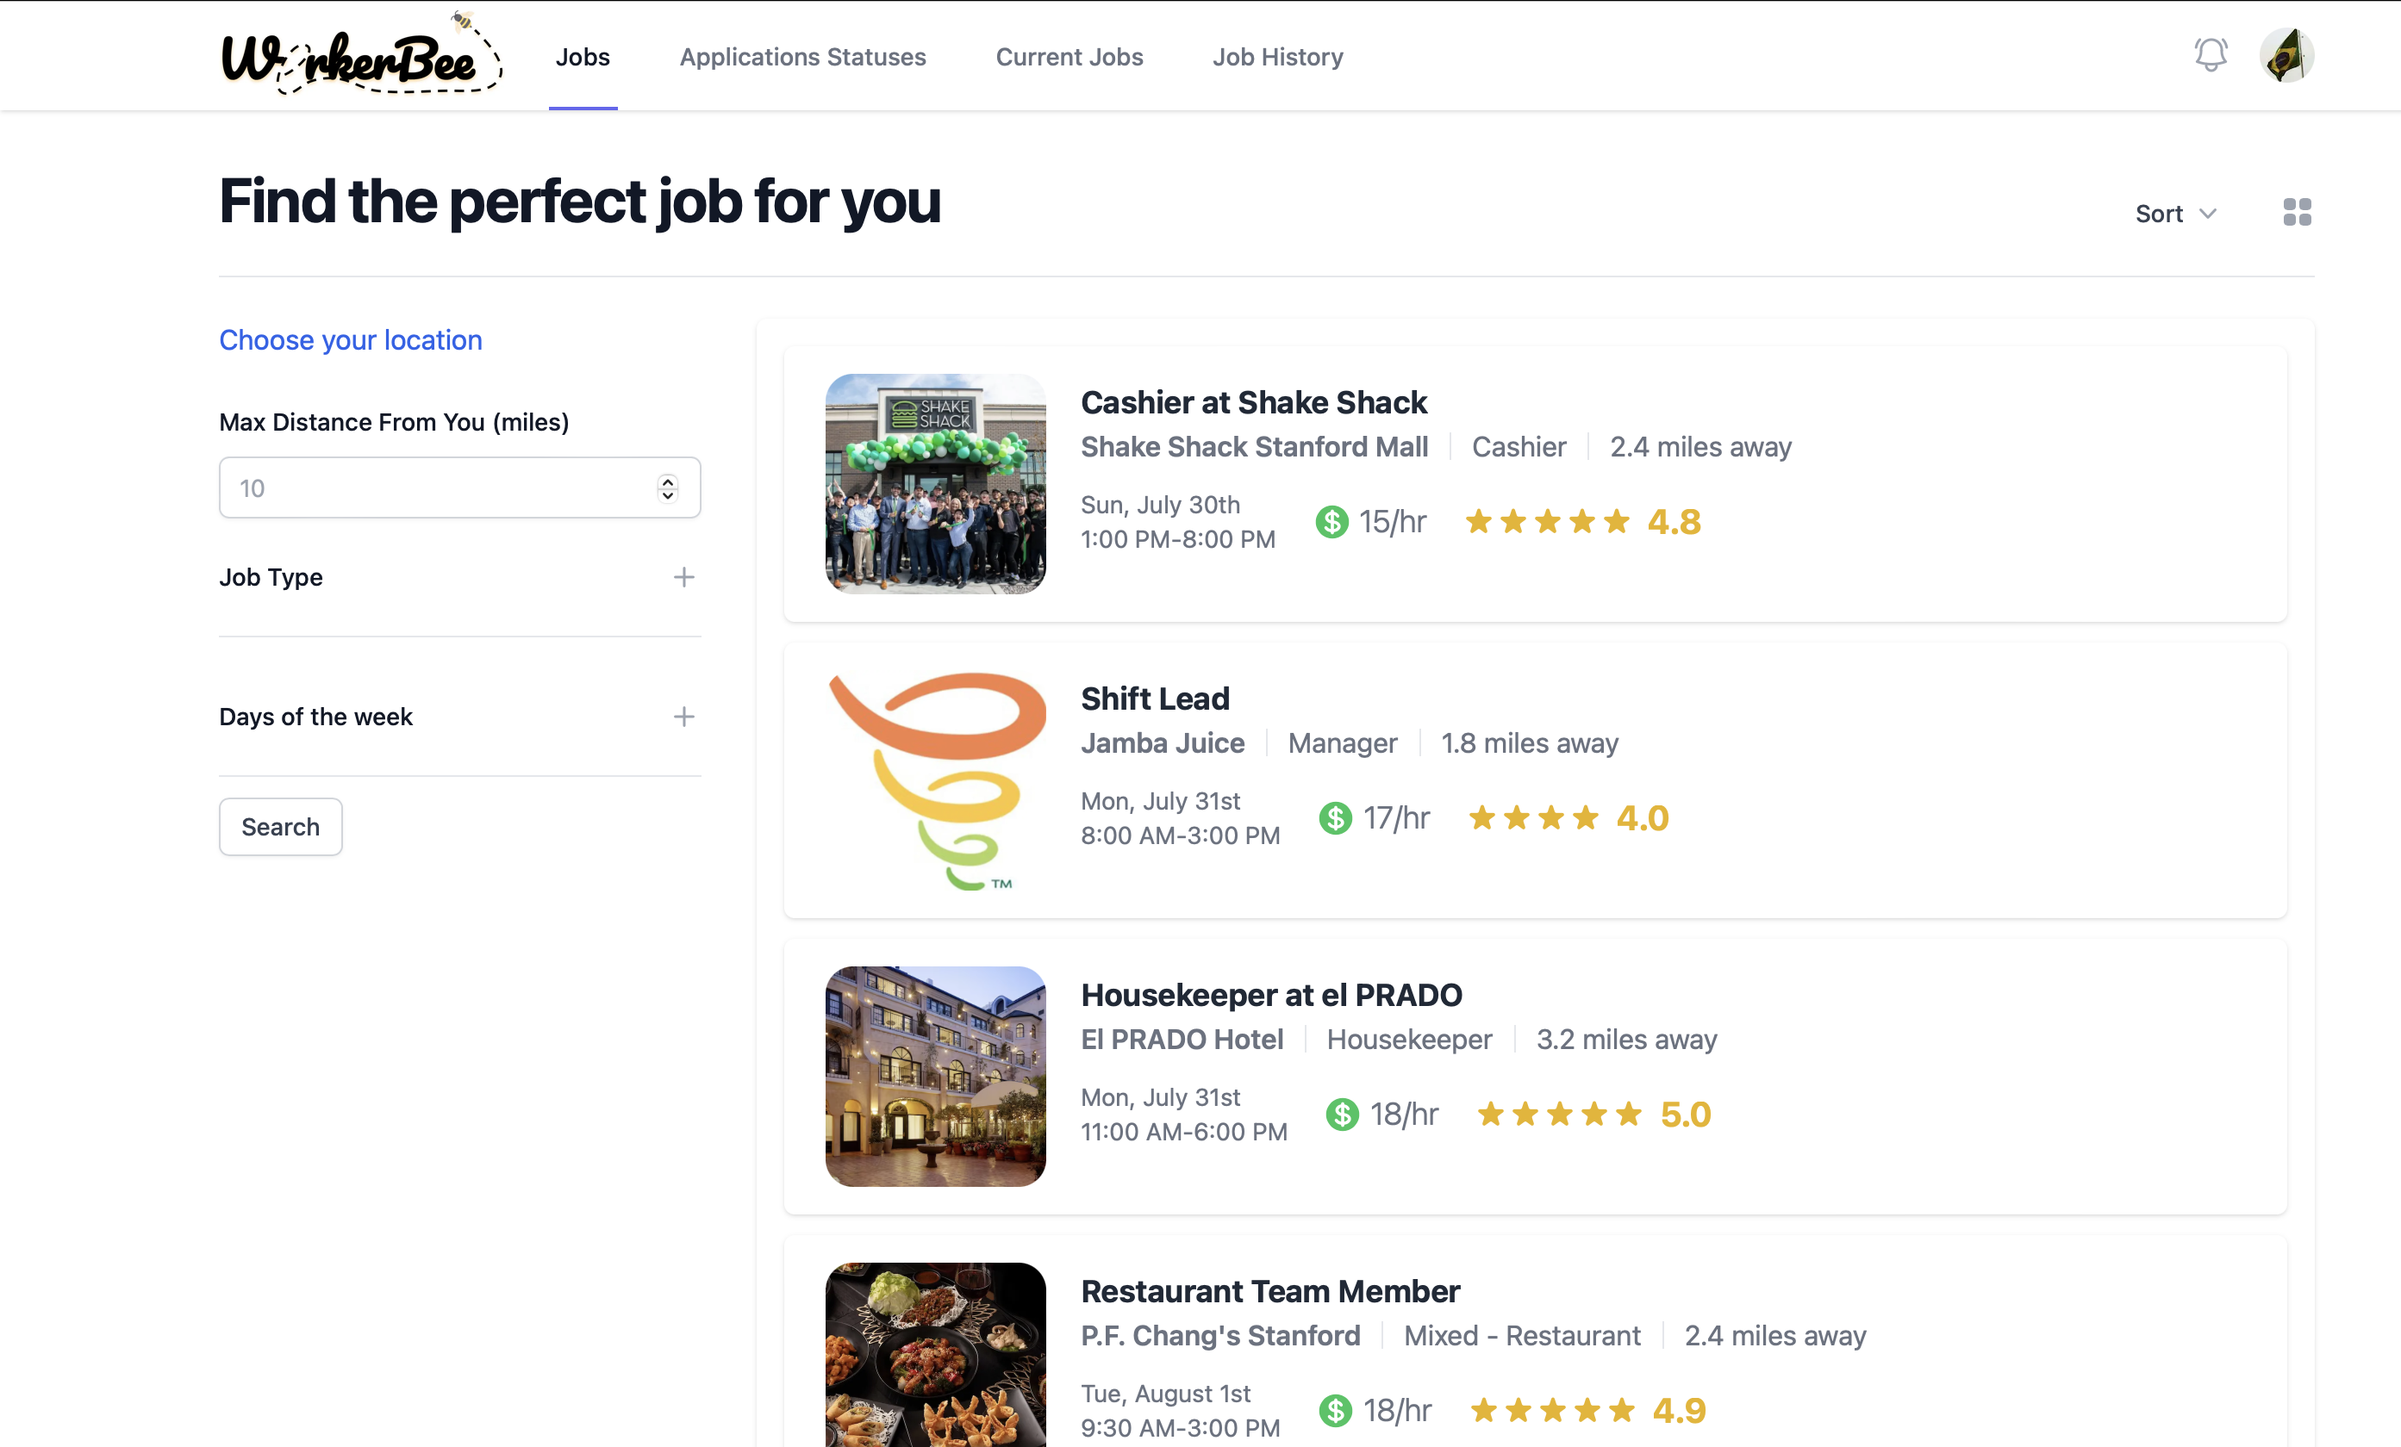
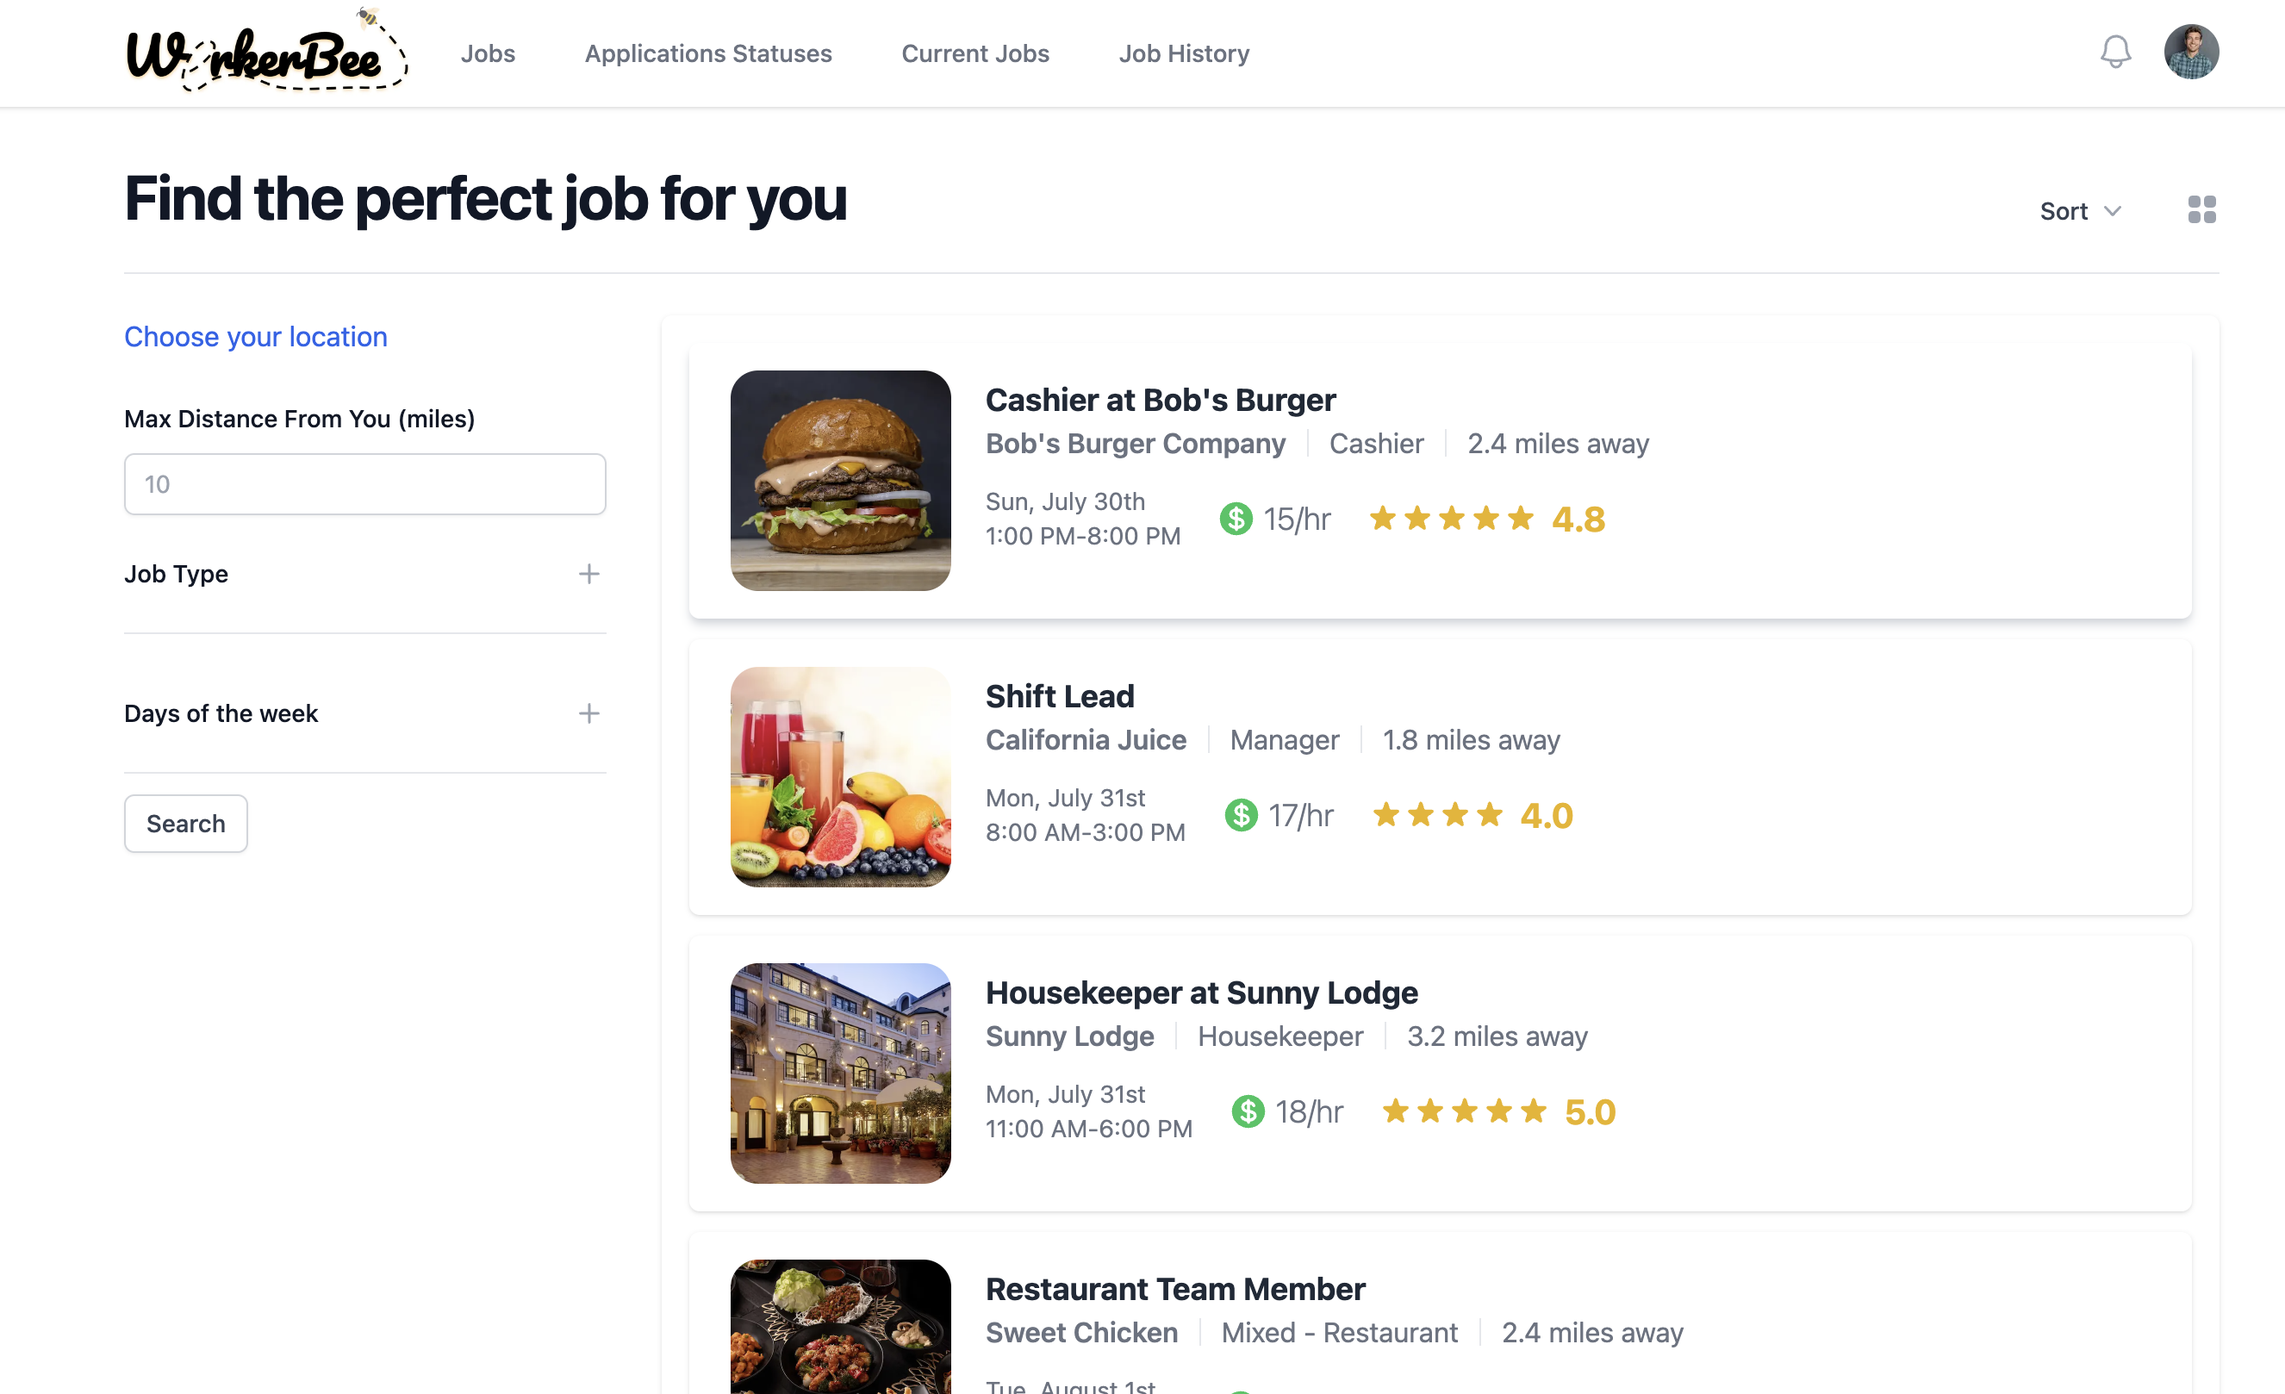
jobs and landing page updates

diff --git a/src/app/jobs/mockData.ts b/src/app/jobs/mockData.ts
@@ -8,10 +8,10 @@ export const mockData = {
 		jobPostings: [
 			{
 				_id: '1',
-				name: 'Cashier at Shake Shack',
+				name: "Cashier at Bob's Burger",
 				description: '',
 				company: {} as Company,
-				companyName: 'Shake Shack Stanford Mall',
+				companyName: "Bob's Burger Company",
 				dayOfWeek: 'Friday',
 				location: 'Stanford, CA',
 				dressCode: '',
@@ -24,7 +24,7 @@ export const mockData = {
 				distance: 2.4,
 				rating: 4.8,
 				frontPicture:
-					'https://werkerbee.s3.us-west-2.amazonaws.com/784935296fb721be76b78d1d6218da7a.jpeg?response-content-disposition=inline&X-Amz-Security-Token=IQoJb3JpZ2luX2VjEK7%2F%2F%2F%2F%2F%2F%2F%2F%2F%2FwEaDGV1LWNlbnRyYWwtMSJGMEQCIEZFLTBDTK2n6TdDu7FN8uKX6KQPHtpj%2B%2BKn%2F67QYwWcAiBCaIbm%2FbEl96hTgyePMtFpqPyQscUXnDO%2Be3GHOe%2B1%2FSr9AghHEAEaDDU2NDQxMzEzMTAzNiIMXjyOoRP3VJ0kzVnqKtoCD7y%2B17xtd1mkcwBIfJrNI4lBfOpXx2lvrkl78G%2BAuRvQg3Pj8FJLFmseMLyzaYS1XIPkiN%2FWyZioAB5RfDCjDilahkT8HM%2BcyZl68P4%2FoBjqZMwxRikWltvxAC4Q%2FU7CcCkUNortDamG95rfP%2BL%2Fmh5Qhyjf4KGTHKVFZEJSH6AJwiUEI83nAb5nvFw1Mw1QBHIZ7uwCzkCROBwoviNShln0J16hMzbeaARmtyjazjjZ8gOnKDngYXgN7YmFGWAa9YV%2Bt%2BnrlJnogt%2BEDhjZYHuX3b8OyBYlHb6PMFq1gVEIqaI0C3iTpjIl1e6l4RRPgK%2F1mCIUAQTaLnxbgbWzl9Tr683CGQbb2SkRJpuXf1p4NU9B8VDO1TlP%2F5geD9Z98cgdsAZbRbWRhZbYrb6U5W0UOw4Ldvc60Q12OPzEPTYHEZenMj5%2FvsZR3ar3Fe%2B01VuKKb8%2BqUrJgTDS1oSmBjq0AlyBG4AY1ruX4PgYy5Ev2KTMMYTsr%2F%2BUU2EGrexm%2F%2F4ELCzO1rkzjOZVnb57cL57hGBTCqd7cezVnmM8a7LX06A1j6%2FFSTtBd5s7S8oiKRe9GqrwD8fr1aLiO1k6KVUOW%2BM5UEy73DUpWhfwJdZ%2BhYziHEuNfamEwIiURiRfNv%2Bn24qhDmltYlrgkMzCaXyorgYIKXRH9i119lbI%2BolsQGuKNr2YaW8W8wj0eAY3fAHsafryz4xVwUT73zQjdPooLNqk5z5kWqcK4eboarJXDJM9%2Bmc6R5k%2FN3EK8BDIAbL0vxrYHDb5yRmfAxrp%2F0%2BdHoTfoB15BpvgtSLEHzgUkVUOEPpMmKow3KynmxuiYghsid2A2rct4KntxaFYvJ6jslphjF0Ja7bI2R5sR6on75KgKgZl&X-Amz-Algorithm=AWS4-HMAC-SHA256&X-Amz-Date=20230726T142009Z&X-Amz-SignedHeaders=host&X-Amz-Expires=300&X-Amz-Credential=ASIAYG2NE5EOIMX5I6GN%2F20230726%2Fus-west-2%2Fs3%2Faws4_request&X-Amz-Signature=a3fecf0bcde2a92da560a2ae6ee468f626f9bbbb092a1f922d22bf0c66c00401',
+					'https://werkerbee.s3.us-west-2.amazonaws.com/photo-1568901346375-23c9450c58cd.jpeg?response-content-disposition=inline&X-Amz-Security-Token=IQoJb3JpZ2luX2VjEFgaDGV1LWNlbnRyYWwtMSJHMEUCIFoFhBkNSDlMZ4pBrGBa%2F2P6SMWF3jePeOhUo0888ksoAiEA8EASQ3sl5Xx20Z%2FyKi7oXl0YVJeyL3EmgckXraLpdFYqhAMI8f%2F%2F%2F%2F%2F%2F%2F%2F%2F%2FARABGgw1NjQ0MTMxMzEwMzYiDOSiW3KQLL71pPtWNyrYAqATIsO5NIX0FqMIdW6ZURIak5W%2B%2B7kdqVlBf1GXOwc%2FbTudxUn2vdzVyH%2F0tt2eyeVOTA%2BqlbomqcXOBATO4aX4icgY17tB9iG%2B90iLs%2BROYnX9N6E21nj5ZQf2ihS9ZosuWDY6SyAaLMxneD%2B%2BlkcUthyyYiwQu16xKM3GI22fejvLWkCuo3fCkpGECf5LUb4JHd2gcyVKyntE77drG6LQz1cpthtZ1iihNJ%2B5KUiAQAlzmHx4GHaKDC3Nyyq2t0bS%2F%2FyyoHa0flCc%2FKXPBXR9%2FIqnukj42TXLfjNGh5TY5q8LXCNl8ML1De4So527XE2NVCrmTS6TWEly%2BCjQ3h%2F42dVf3k9N2hxKCpYd%2BCKlv89S3EbzinjEvQt69YoBCsuRVUkO2CfgB7xelD6nP6zowjRxr5FzL%2FKPwXvxMZFZLzLC%2Flh5lrmcOhQv0rY6VmJX8Vol9kggMKnwqaYGOrMCqGiK%2BgNkDObgBc9WfMBsO%2FX7pI6a0OhdaxNZ%2B8IclfJlxh9w5kihDYUe71QXaIWYXYW0YsyDD8Zen1cmYL0F%2FYafS%2BEYesm8o9jMu6l64Og7vFC8d97Y7ZSA%2BmdV3vOEyYdHAD7YBxDj3Q5eJf8cRmFbUi%2F1vM6zjzOO5bMiKvls206w1Ya4mpvo0LCLOyVv32HtnUSO2MGIZtXxVLoF%2FyXYVh2Y9COKSHYFLyxeTZ2Rpdd90blLUfCOMBI5O75mgd8MYjtKmxRrezxYNR7npm7euggMGy%2BPSakC149XXP80jo17%2BzF2VVATXDmVD51O0kmB2kqc%2FQM%2FqQCGyzi67E8ihlI3Jd52ERmg%2BtnC%2FgMX2QIdvSfcow4BRlM1omrCqRAh%2F4WUWRwOuncZpkgFDAyQIQ%3D%3D&X-Amz-Algorithm=AWS4-HMAC-SHA256&X-Amz-Date=20230802T153809Z&X-Amz-SignedHeaders=host&X-Amz-Expires=300&X-Amz-Credential=ASIAYG2NE5EOAGO4ZJMK%2F20230802%2Fus-west-2%2Fs3%2Faws4_request&X-Amz-Signature=dfb355024552611069bc822d794a0b192ec311f65d3188d8a22479a2908e68c5',
 				applications: [],
 				createdAt: new Date(),
 				updatedAt: new Date(),
@@ -34,7 +34,7 @@ export const mockData = {
 				name: 'Shift Lead',
 				description: '',
 				company: {} as Company,
-				companyName: 'Jamba Juice',
+				companyName: 'California Juice',
 				dayOfWeek: 'Saturday',
 				location: 'Stanford, CA',
 				dressCode: '',
@@ -47,17 +47,17 @@ export const mockData = {
 				distance: 1.8,
 				rating: 4,
 				frontPicture:
-					'https://werkerbee.s3.us-west-2.amazonaws.com/640_640.jpeg?response-content-disposition=inline&X-Amz-Security-Token=IQoJb3JpZ2luX2VjEK7%2F%2F%2F%2F%2F%2F%2F%2F%2F%2FwEaDGV1LWNlbnRyYWwtMSJGMEQCIEZFLTBDTK2n6TdDu7FN8uKX6KQPHtpj%2B%2BKn%2F67QYwWcAiBCaIbm%2FbEl96hTgyePMtFpqPyQscUXnDO%2Be3GHOe%2B1%2FSr9AghHEAEaDDU2NDQxMzEzMTAzNiIMXjyOoRP3VJ0kzVnqKtoCD7y%2B17xtd1mkcwBIfJrNI4lBfOpXx2lvrkl78G%2BAuRvQg3Pj8FJLFmseMLyzaYS1XIPkiN%2FWyZioAB5RfDCjDilahkT8HM%2BcyZl68P4%2FoBjqZMwxRikWltvxAC4Q%2FU7CcCkUNortDamG95rfP%2BL%2Fmh5Qhyjf4KGTHKVFZEJSH6AJwiUEI83nAb5nvFw1Mw1QBHIZ7uwCzkCROBwoviNShln0J16hMzbeaARmtyjazjjZ8gOnKDngYXgN7YmFGWAa9YV%2Bt%2BnrlJnogt%2BEDhjZYHuX3b8OyBYlHb6PMFq1gVEIqaI0C3iTpjIl1e6l4RRPgK%2F1mCIUAQTaLnxbgbWzl9Tr683CGQbb2SkRJpuXf1p4NU9B8VDO1TlP%2F5geD9Z98cgdsAZbRbWRhZbYrb6U5W0UOw4Ldvc60Q12OPzEPTYHEZenMj5%2FvsZR3ar3Fe%2B01VuKKb8%2BqUrJgTDS1oSmBjq0AlyBG4AY1ruX4PgYy5Ev2KTMMYTsr%2F%2BUU2EGrexm%2F%2F4ELCzO1rkzjOZVnb57cL57hGBTCqd7cezVnmM8a7LX06A1j6%2FFSTtBd5s7S8oiKRe9GqrwD8fr1aLiO1k6KVUOW%2BM5UEy73DUpWhfwJdZ%2BhYziHEuNfamEwIiURiRfNv%2Bn24qhDmltYlrgkMzCaXyorgYIKXRH9i119lbI%2BolsQGuKNr2YaW8W8wj0eAY3fAHsafryz4xVwUT73zQjdPooLNqk5z5kWqcK4eboarJXDJM9%2Bmc6R5k%2FN3EK8BDIAbL0vxrYHDb5yRmfAxrp%2F0%2BdHoTfoB15BpvgtSLEHzgUkVUOEPpMmKow3KynmxuiYghsid2A2rct4KntxaFYvJ6jslphjF0Ja7bI2R5sR6on75KgKgZl&X-Amz-Algorithm=AWS4-HMAC-SHA256&X-Amz-Date=20230726T142811Z&X-Amz-SignedHeaders=host&X-Amz-Expires=300&X-Amz-Credential=ASIAYG2NE5EOIMX5I6GN%2F20230726%2Fus-west-2%2Fs3%2Faws4_request&X-Amz-Signature=052eab5bcc40577ca3719bcad6f0ac6fbfba948659f96ab619f63e3a971d4376',
+					'https://werkerbee.s3.us-west-2.amazonaws.com/360_F_223473605_QZguR4hczOIkKmoX3YJ9uRYsrmzN5XaM.jpg?response-content-disposition=inline&X-Amz-Security-Token=IQoJb3JpZ2luX2VjEFgaDGV1LWNlbnRyYWwtMSJHMEUCIFoFhBkNSDlMZ4pBrGBa%2F2P6SMWF3jePeOhUo0888ksoAiEA8EASQ3sl5Xx20Z%2FyKi7oXl0YVJeyL3EmgckXraLpdFYqhAMI8f%2F%2F%2F%2F%2F%2F%2F%2F%2F%2FARABGgw1NjQ0MTMxMzEwMzYiDOSiW3KQLL71pPtWNyrYAqATIsO5NIX0FqMIdW6ZURIak5W%2B%2B7kdqVlBf1GXOwc%2FbTudxUn2vdzVyH%2F0tt2eyeVOTA%2BqlbomqcXOBATO4aX4icgY17tB9iG%2B90iLs%2BROYnX9N6E21nj5ZQf2ihS9ZosuWDY6SyAaLMxneD%2B%2BlkcUthyyYiwQu16xKM3GI22fejvLWkCuo3fCkpGECf5LUb4JHd2gcyVKyntE77drG6LQz1cpthtZ1iihNJ%2B5KUiAQAlzmHx4GHaKDC3Nyyq2t0bS%2F%2FyyoHa0flCc%2FKXPBXR9%2FIqnukj42TXLfjNGh5TY5q8LXCNl8ML1De4So527XE2NVCrmTS6TWEly%2BCjQ3h%2F42dVf3k9N2hxKCpYd%2BCKlv89S3EbzinjEvQt69YoBCsuRVUkO2CfgB7xelD6nP6zowjRxr5FzL%2FKPwXvxMZFZLzLC%2Flh5lrmcOhQv0rY6VmJX8Vol9kggMKnwqaYGOrMCqGiK%2BgNkDObgBc9WfMBsO%2FX7pI6a0OhdaxNZ%2B8IclfJlxh9w5kihDYUe71QXaIWYXYW0YsyDD8Zen1cmYL0F%2FYafS%2BEYesm8o9jMu6l64Og7vFC8d97Y7ZSA%2BmdV3vOEyYdHAD7YBxDj3Q5eJf8cRmFbUi%2F1vM6zjzOO5bMiKvls206w1Ya4mpvo0LCLOyVv32HtnUSO2MGIZtXxVLoF%2FyXYVh2Y9COKSHYFLyxeTZ2Rpdd90blLUfCOMBI5O75mgd8MYjtKmxRrezxYNR7npm7euggMGy%2BPSakC149XXP80jo17%2BzF2VVATXDmVD51O0kmB2kqc%2FQM%2FqQCGyzi67E8ihlI3Jd52ERmg%2BtnC%2FgMX2QIdvSfcow4BRlM1omrCqRAh%2F4WUWRwOuncZpkgFDAyQIQ%3D%3D&X-Amz-Algorithm=AWS4-HMAC-SHA256&X-Amz-Date=20230802T153835Z&X-Amz-SignedHeaders=host&X-Amz-Expires=300&X-Amz-Credential=ASIAYG2NE5EOAGO4ZJMK%2F20230802%2Fus-west-2%2Fs3%2Faws4_request&X-Amz-Signature=eb2699ad20e9a28be53d0e3039ba331ba83d89c9fe5c16f9214386737bfac5df',
 				applications: [],
 				createdAt: new Date(),
 				updatedAt: new Date(),
 			},
 			{
 				_id: '1',
-				name: 'Housekeeper at el PRADO',
+				name: 'Housekeeper at Sunny Lodge',
 				description: '',
 				company: {} as Company,
-				companyName: 'el PRADO Hotel',
+				companyName: 'Sunny Lodge',
 				dayOfWeek: 'Monday',
 				location: 'Palo Alto, CA',
 				dressCode: '',
@@ -80,7 +80,7 @@ export const mockData = {
 				name: 'Restaurant Team Member',
 				description: '',
 				company: {} as Company,
-				companyName: "P.F. Chang's Stanford",
+				companyName: 'Sweet Chicken',
 				dayOfWeek: 'Friday',
 				location: 'Stanford, CA',
 				dressCode: '',

diff --git a/src/app/page.tsx b/src/app/page.tsx
@@ -2,15 +2,13 @@
 
 import {
 	ArrowPathIcon,
-	Bars3Icon,
-	CloudArrowUpIcon,
+	BanknotesIcon,
+	ClockIcon,
 	CogIcon,
-	LockClosedIcon,
+	HandThumbUpIcon,
 	ServerIcon,
-	ShieldCheckIcon,
-	XMarkIcon,
 } from '@heroicons/react/24/outline'
-import { ChevronRightIcon, LinkIcon } from '@heroicons/react/24/solid'
+import { ChevronRightIcon } from '@heroicons/react/24/solid'
 
 import WerkerBeeLogo from '@/src/assets/werkerbeelogo_new_white.png'
 
@@ -20,40 +18,22 @@ import Image from 'next/image'
 
 const features = [
 	{
-		name: 'Push to Deploy',
+		name: 'Save Money',
 		description:
-			'Ac tincidunt sapien vehicula erat auctor pellentesque rhoncus. Et magna sit morbi vitae lobortis.',
-		icon: CloudArrowUpIcon,
+			'Building your own pool of flexible workers through WerkerBee costs less than using hiring websites, temp agencies, or independent contractor platforms.',
+		icon: BanknotesIcon,
 	},
 	{
-		name: 'SSL Certificates',
+		name: 'Save Time',
 		description:
-			'Qui aut temporibus nesciunt vitae dicta repellat sit dolores pariatur. Temporibus qui illum aut.',
-		icon: LockClosedIcon,
+			'WerkerBee does the hiring work for you by prescreening all our employed flexible workers. You can skip the emails, phone calls, interviews, verifications, and focus on running your business!',
+		icon: ClockIcon,
 	},
 	{
-		name: 'Simple Queues',
+		name: 'Hire Away',
 		description:
-			'Rerum quas incidunt deleniti quaerat suscipit mollitia. Amet repellendus ut odit dolores qui.',
-		icon: ArrowPathIcon,
-	},
-	{
-		name: 'Advanced Security',
-		description:
-			'Ullam laboriosam est voluptatem maxime ut mollitia commodi. Et dignissimos suscipit perspiciatis.',
-		icon: ShieldCheckIcon,
-	},
-	{
-		name: 'Powerful API',
-		description:
-			'Ab a facere voluptatem in quia corrupti veritatis aliquam. Veritatis labore quaerat ipsum quaerat id.',
-		icon: CogIcon,
-	},
-	{
-		name: 'Database Backups',
-		description:
-			'Quia qui et est officia cupiditate qui consectetur. Ratione similique et impedit ea ipsum et.',
-		icon: ServerIcon,
+			"Hire away our WerkerBees! WerkerBee doesn't charge businesses if they want to hire away our workers. Why would we? WerkerBee is here to support the hospitality industry!",
+		icon: HandThumbUpIcon,
 	},
 ]
 const blogPosts = [
@@ -299,12 +279,13 @@ export default function Example() {
 									Job search
 								</h2>
 								<p className='mt-2 text-3xl font-extrabold text-gray-900 tracking-tight sm:text-4xl'>
-									Want to find a shift for this weekend? No problem.
+									Want to work in hospitality, but need a flexible schedule?
 								</p>
 								<p className='mt-5 max-w-prose mx-auto text-xl text-gray-500'>
-									Phasellus lorem quam molestie id quisque diam aenean nulla in.
-									Accumsan in quis quis nunc, ullamcorper malesuada. Eleifend
-									condimentum id viverra nulla.
+									When hired by WerkerBee, you will be trained at hospitality
+									businesses that need your skills and match your availability.
+									You&apos;ll also have the chance to advance your career
+									through WerkerBee&apos;s upskilling program!
 								</p>
 							</div>
 							<div className='mt-12 -mb-10 sm:-mb-24 lg:-mb-80'>
@@ -329,9 +310,11 @@ export default function Example() {
 								Say goodbye to your worker shortage issues
 							</p>
 							<p className='mt-5 max-w-prose mx-auto text-xl text-gray-500'>
-								Phasellus lorem quam molestie id quisque diam aenean nulla in.
-								Accumsan in quis quis nunc, ullamcorper malesuada. Eleifend
-								condimentum id viverra nulla.
+								Run your hospitality business seamlessly using your own
+								dedicated pools of flexible workers. WerkerBee&apos;s employed
+								flexible workers are trained by you at your business so you have
+								a reliable solution for all your planned and unplanned labor
+								shortages.
 							</p>
 							<div className='mt-12'>
 								<div className='grid grid-cols-1 gap-8 sm:grid-cols-2 lg:grid-cols-3'>
@@ -363,7 +346,7 @@ export default function Example() {
 					</div>
 
 					{/* Testimonial section */}
-					<div className='pb-16 bg-gradient-to-r from-teal-500 to-cyan-600 lg:pb-0 lg:z-10 lg:relative'>
+					{/* <div className='pb-16 bg-gradient-to-r from-teal-500 to-cyan-600 lg:pb-0 lg:z-10 lg:relative'>
 						<div className='lg:mx-auto lg:max-w-7xl lg:px-8 lg:grid lg:grid-cols-3 lg:gap-8'>
 							<div className='relative lg:-my-8'>
 								<div
@@ -410,10 +393,10 @@ export default function Example() {
 								</div>
 							</div>
 						</div>
-					</div>
+					</div> */}
 
 					{/* Blog section */}
-					<div className='relative bg-gray-50 py-16 sm:py-24 lg:py-32'>
+					{/* <div className='relative bg-gray-50 py-16 sm:py-24 lg:py-32'>
 						<div className='relative'>
 							<div className='text-center mx-auto max-w-md px-4 sm:max-w-3xl sm:px-6 lg:px-8 lg:max-w-7xl'>
 								<h2 className='text-base font-semibold tracking-wider text-cyan-600 uppercase'>
@@ -491,10 +474,10 @@ export default function Example() {
 								))}
 							</div>
 						</div>
-					</div>
+					</div> */}
 
 					{/* CTA Section */}
-					<div className='relative bg-gray-900'>
+					{/* <div className='relative bg-gray-900'>
 						<div className='relative h-56 bg-indigo-600 sm:h-72 md:absolute md:left-0 md:h-full md:w-1/2'>
 							<img
 								className='w-full h-full object-cover'
@@ -536,7 +519,7 @@ export default function Example() {
 								</div>
 							</div>
 						</div>
-					</div>
+					</div> */}
 				</main>
 				<footer className='bg-gray-50' aria-labelledby='footer-heading'>
 					<h2 id='footer-heading' className='sr-only'>

diff --git a/src/app/jobs/page.tsx b/src/app/jobs/page.tsx
@@ -39,8 +39,9 @@ export default function Jobs({ params }: any) {
 				: undefined,
 	})
 
-	const { data, error, isLoading } = useJobPostings(searchOptions)
-	// MOCK DATA const { data, error, isLoading } = mockData
+	//const { data, error, isLoading } = useJobPostings(searchOptions)
+	// MOCK DATA
+	const { data, error, isLoading } = mockData
 
 	const handlePrevPage = () => {
 		if (searchOptions.page > 1) {

diff --git a/src/components/navBar/NavBar.tsx b/src/components/navBar/NavBar.tsx
@@ -163,7 +163,7 @@ export default function NavBar() {
 									</div>
 									{status == 'unauthenticated' && !session ? (
 										<a className='flex flex-row items-center' href='/login'>
-											<span className='font-semibold'>Login</span>
+											<span className='font-semibold'>Login | Sign Up</span>
 										</a>
 									) : (
 										<div className='flex items-center'>
